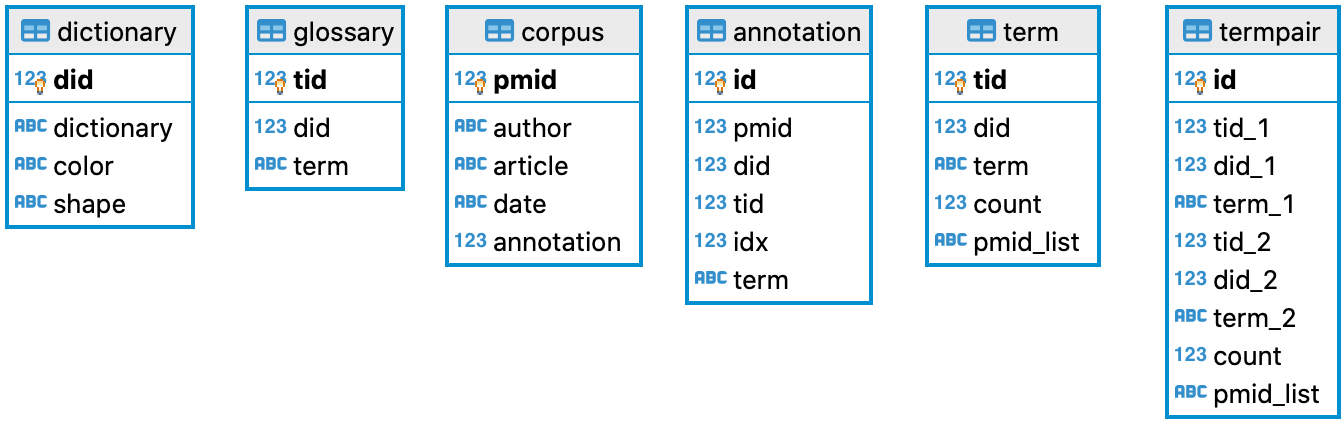
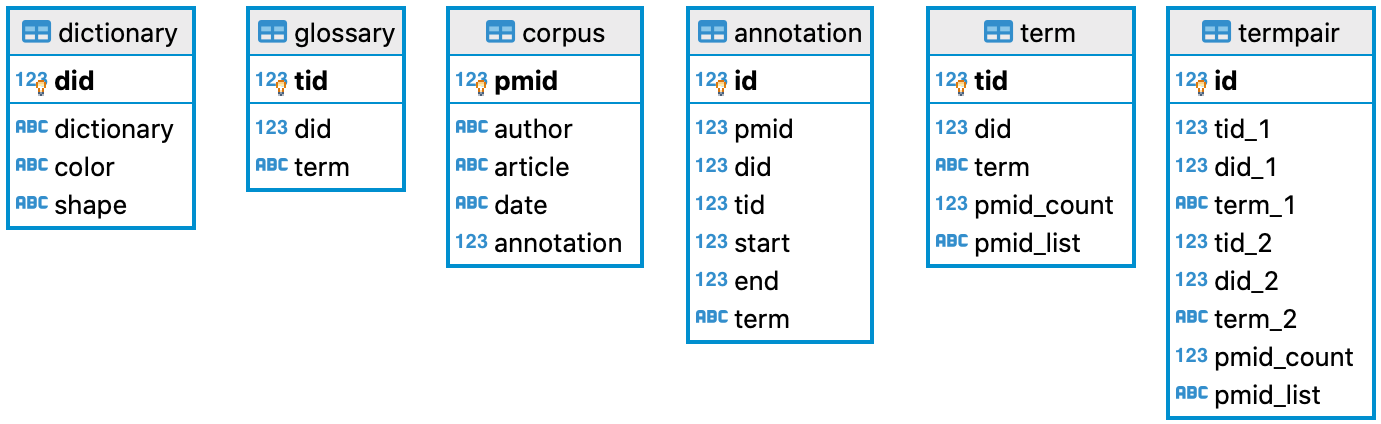
tables change

Changed region(s): [[0.0, 0.0, 1.0, 1.0], [0.0, 0.4621, 0.0938, 0.5237], [0.0, 0.3697, 0.0938, 0.4313]]

diff --git a/README.md b/README.md
@@ -72,7 +72,7 @@ Tables:
    - `tid`: term id
    - `did`: dictionary id the term belongs to
    - `term`: term name
-   - `count`: number of articles the term has been found in
+   - `pmid_count`: number of articles the term has been found in
    - `pmid_list`: comma separated list of articles containing the term.
    This table can be used to display various statistics or as a data source for machine learning programs.
 - `termpair`: contains list of term co-occurences
@@ -83,7 +83,7 @@ Tables:
    - `tid_2`: term 2 id
    - `did_2`: dictionary id the term 2 belongs to
    - `term_2`: term 2name
-   - `count`: number of articles terms has been found in
+   - `pmid_count`: number of articles terms has been found in
    - `pmid_list`: comma separated list of articles containing the terms.
    This table can be used to generate complex graphs showing links between terms (e.g. by using the cytoscape (https://js.cytoscape.org). For example, terms are represented as colored blocks (as defined in the `dictionary` table and the links between them denote number of articles linked terms co-occur)
 <p align="center">
